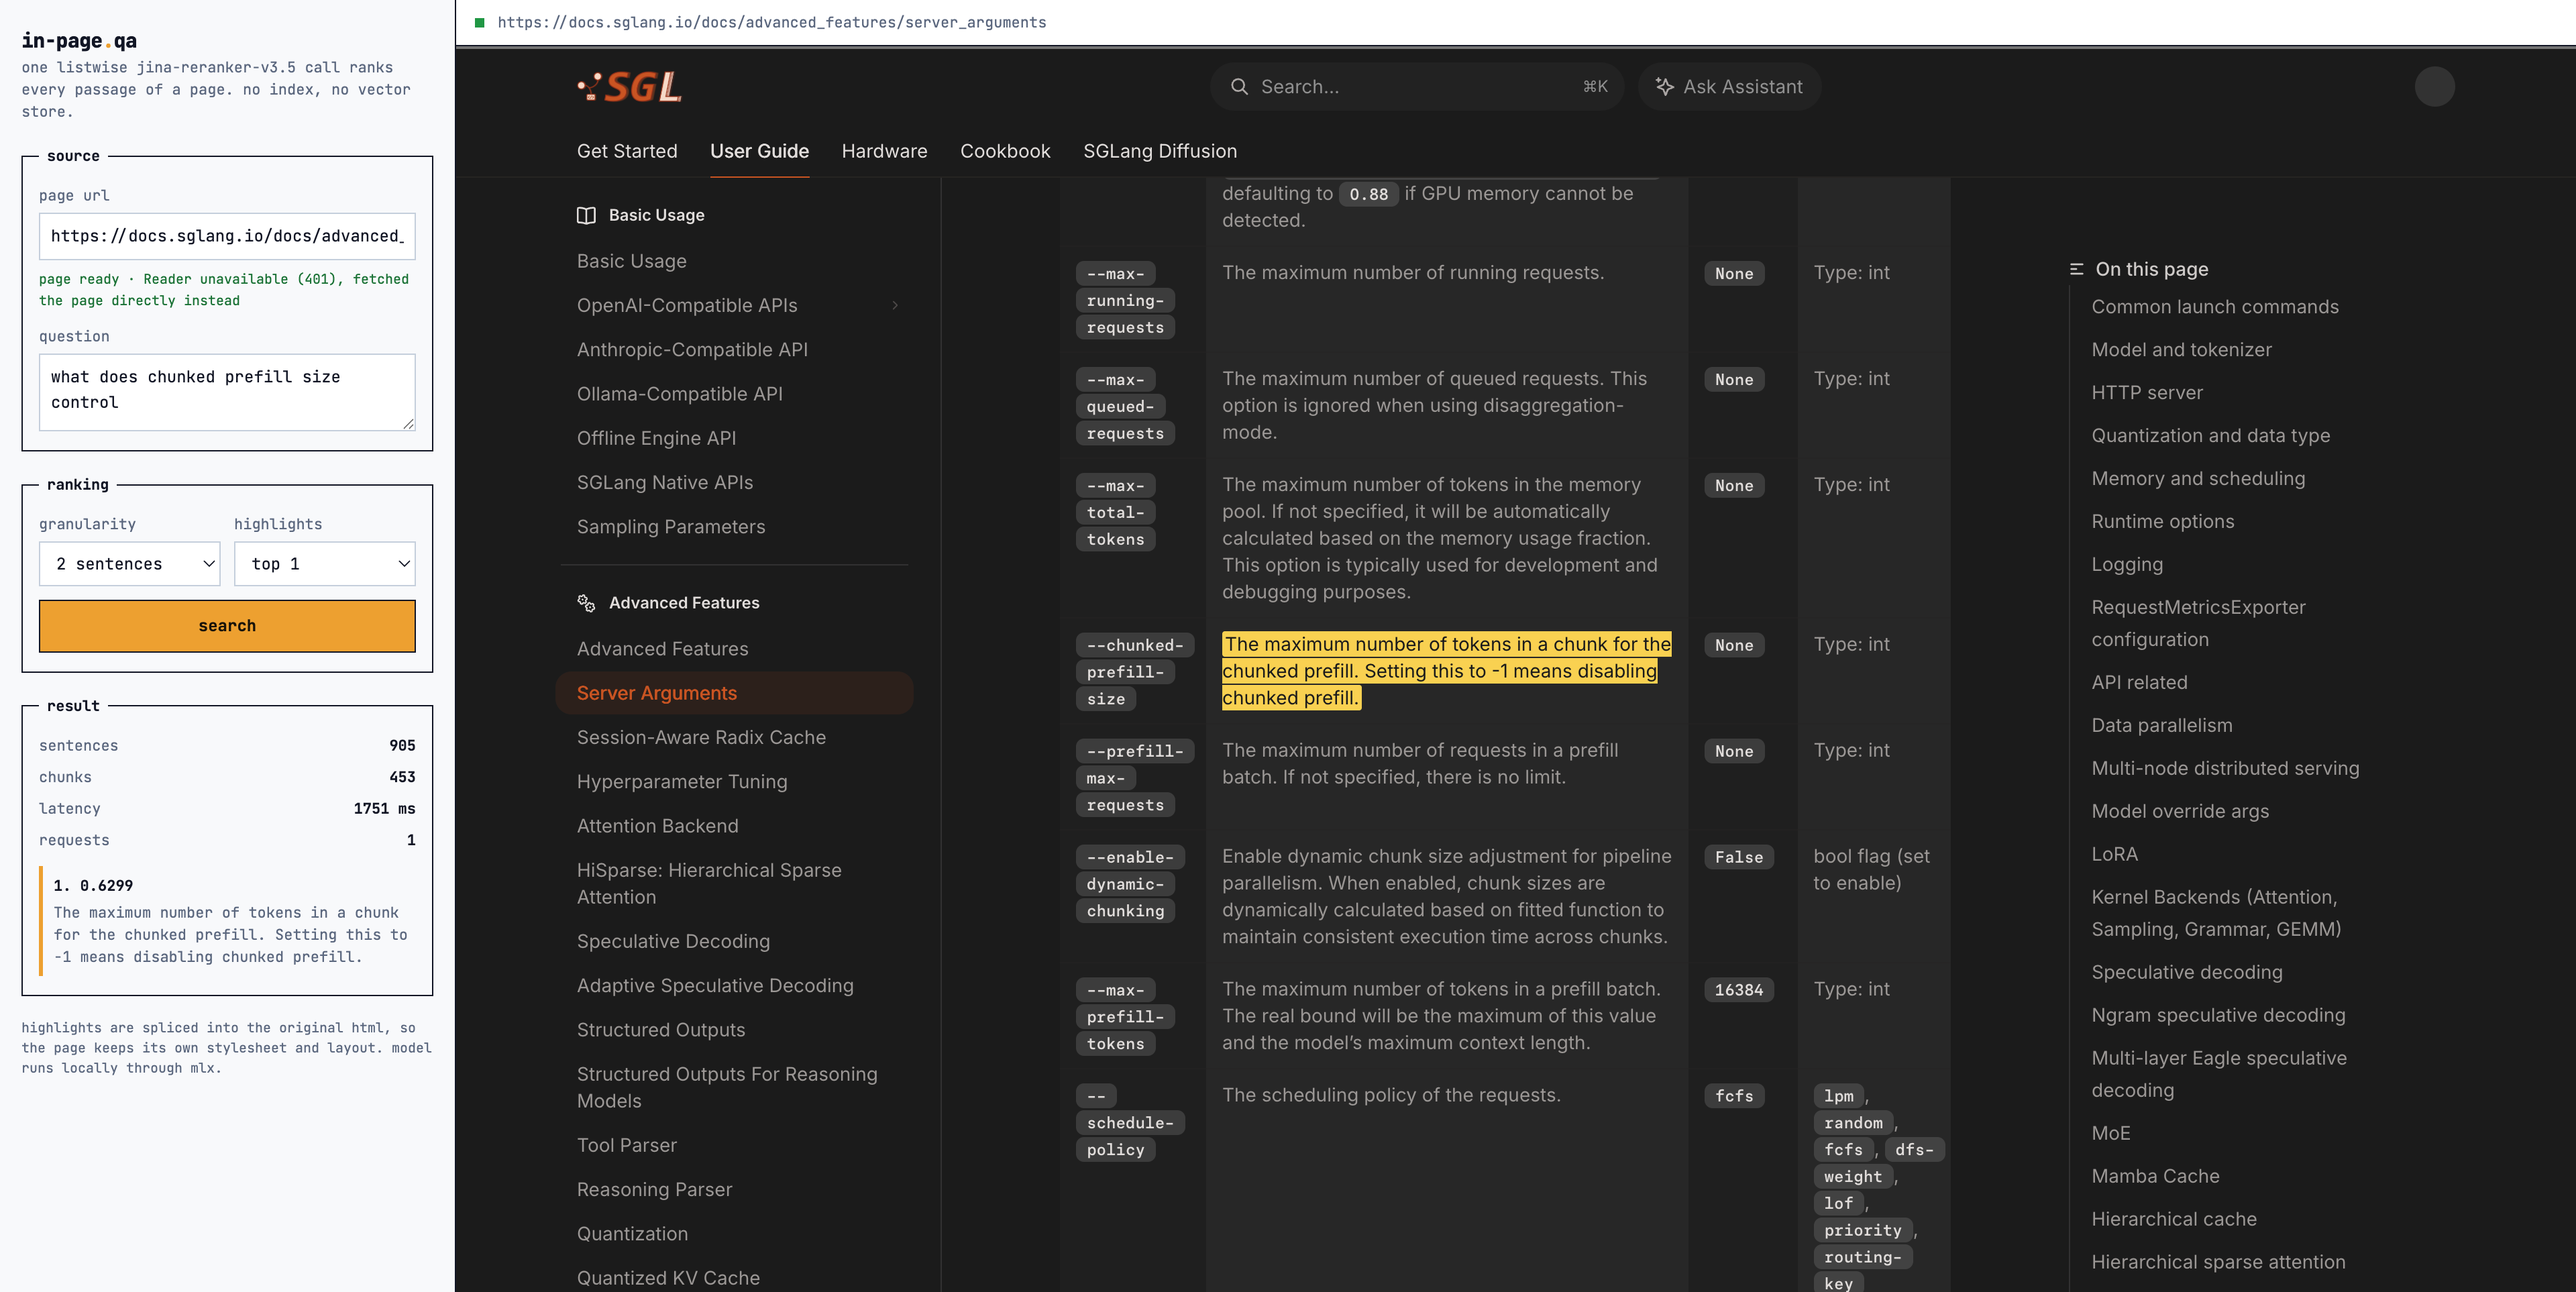
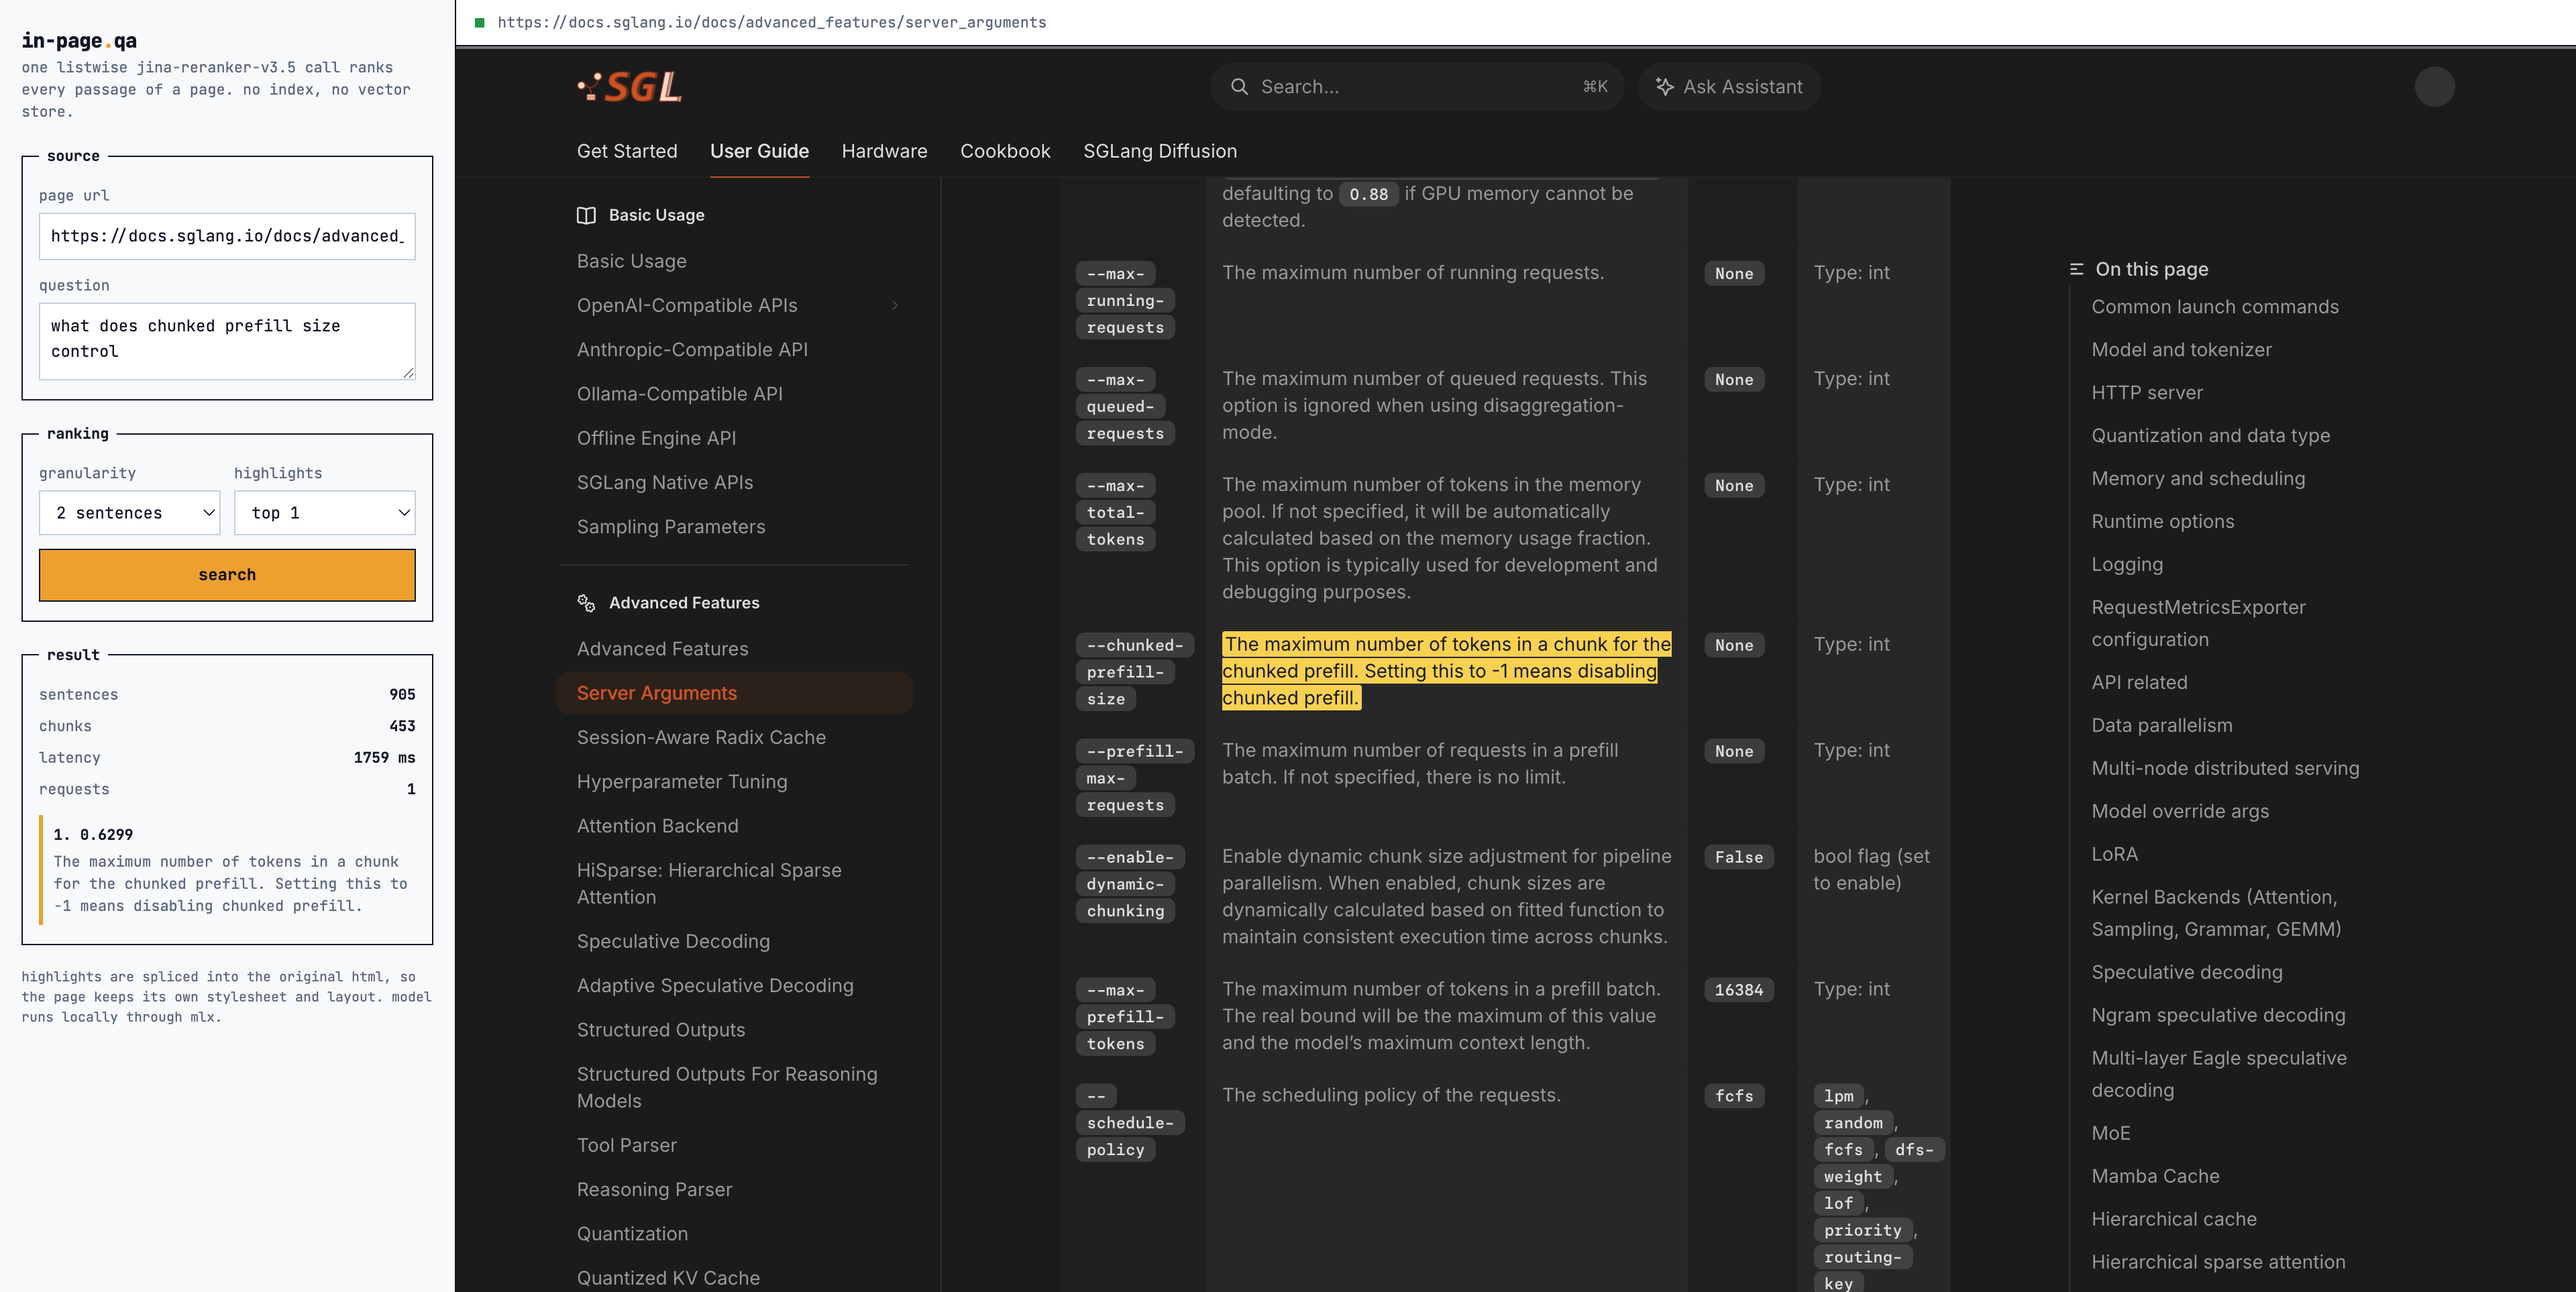
Make the prefetch silent
The status line under the url was narrating work nobody asked to watch, and it
sat between the two fields you actually fill in. The prefetch itself stays: the
page and the weights are still warmed while the question is typed, there is
just nothing to read about it. Anything that fails resurfaces when search runs,
which reports it properly.

Changed region(s): [[0.0, 0.2181, 0.1875, 0.8411], [0.125, 0.5607, 0.1562, 0.5919]]

diff --git a/inpage/static/index.html b/inpage/static/index.html
@@ -97,11 +97,6 @@
   @keyframes pulse { 50% { opacity: 0.35; } }
   .note { font-size: 10px; color: var(--muted); line-height: 1.5; }
 
-  .prefetch { font-size: 10px; color: #94a3b8; margin-top: -4px; min-height: 14px; }
-  .prefetch.ready { color: #15803d; }
-  .prefetch.failed { color: #b3261e; }
-  .prefetch.working::after { content: ""; animation: dots 1.2s steps(4, end) infinite; }
-  @keyframes dots { 0% { content: ""; } 25% { content: "."; } 50% { content: ".."; } 75% { content: "..."; } }
   a { color: inherit; }
 
   /* ---------- right: rendered page ---------- */
@@ -145,7 +140,6 @@
         <input id="url" type="url" required
                value="https://jina.ai/news/jina-reranker-v3-5-faster-listwise-reranking-hybrid-attention-self-distillation/">
       </label>
-      <div class="prefetch" id="prefetch">&nbsp;</div>
       <label class="row">question
         <textarea id="question" required
                   placeholder="ask in plain language, no keywords needed">how did they make it run faster without making the model bigger</textarea>
@@ -221,15 +215,12 @@
     const url = $('url').value.trim();
     clearTimeout(prefetchTimer);
     if (!url || url === prefetched || !/^https?:\/\/\S+\.\S+/.test(url)) return;
-    $('prefetch').className = 'prefetch';
-    $('prefetch').innerHTML = '&nbsp;';
     prefetchTimer = setTimeout(() => runPrefetch(url), PREFETCH_DELAY_MS);
   }
 
+  // Silent on purpose. Any problem here resurfaces when search runs, which
+  // reports it properly, so there is nothing worth saying mid-typing.
   async function runPrefetch(url) {
-    const el = $('prefetch');
-    el.className = 'prefetch working';
-    el.textContent = 'prefetching page';
     try {
       const response = await fetch('/api/prefetch', {
         method: 'POST',
@@ -237,20 +228,9 @@
         body: JSON.stringify({ url }),
       });
       const data = await response.json();
-      if (url !== $('url').value.trim()) return;  // superseded while in flight
-      if (data.cached) {
-        prefetched = url;
-        el.className = 'prefetch ready';
-        el.textContent = 'page ready \u00b7 ' + data.note;
-      } else {
-        // Say why rather than going quiet: a 404 here is worth seeing before
-        // you have typed out a whole question.
-        el.className = 'prefetch failed';
-        el.textContent = data.note || 'could not fetch this page';
-      }
+      if (data.cached && url === $('url').value.trim()) prefetched = url;
     } catch {
-      el.className = 'prefetch';
-      el.innerHTML = '&nbsp;';
+      /* the search will fetch it again and report any failure */
     }
   }
 

diff --git a/README.md b/README.md
@@ -28,9 +28,10 @@ model load is visible rather than looking like a hang:
 ![Progress while searching](docs/img/ui-progress.png)
 
 The page is fetched **while you are still typing the question**. Settle on a
-url and the server pulls it and warms the weights in the background, so hitting
-search usually costs only the forward pass. On a 905-sentence page that is
-1.35s down to 1.09s; the fetch has left the critical path entirely.
+url and the server quietly pulls it and warms the weights in the background,
+with nothing to click and nothing to read, so hitting search usually costs only
+the forward pass. On a 345-sentence page that is 1.35s down to 1.09s while the
+ranking itself is unchanged — the fetch has left the critical path entirely.
 
 It works on whatever the page happens to be. Dark-themed docs keep their theme,
 nav and table layout, and the highlight lands in the right cell:
@@ -187,7 +188,9 @@ The backend is a stdlib `http.server` — no web framework.
   which stage it is in instead of showing a spinner that means nothing.
 - `POST /api/prefetch` is fired when the url field settles, ~700 ms after the
   last keystroke. It caches the page and loads the weights in a background
-  thread, so both are usually done before the question is finished.
+  thread, so both are usually done before the question is finished. It reports
+  nothing to the UI: anything that goes wrong resurfaces when search runs,
+  which reports it properly.
 
 The model loads once and is reused, and the last page fetched is cached, so
 changing granularity or top-n re-ranks without re-fetching.
